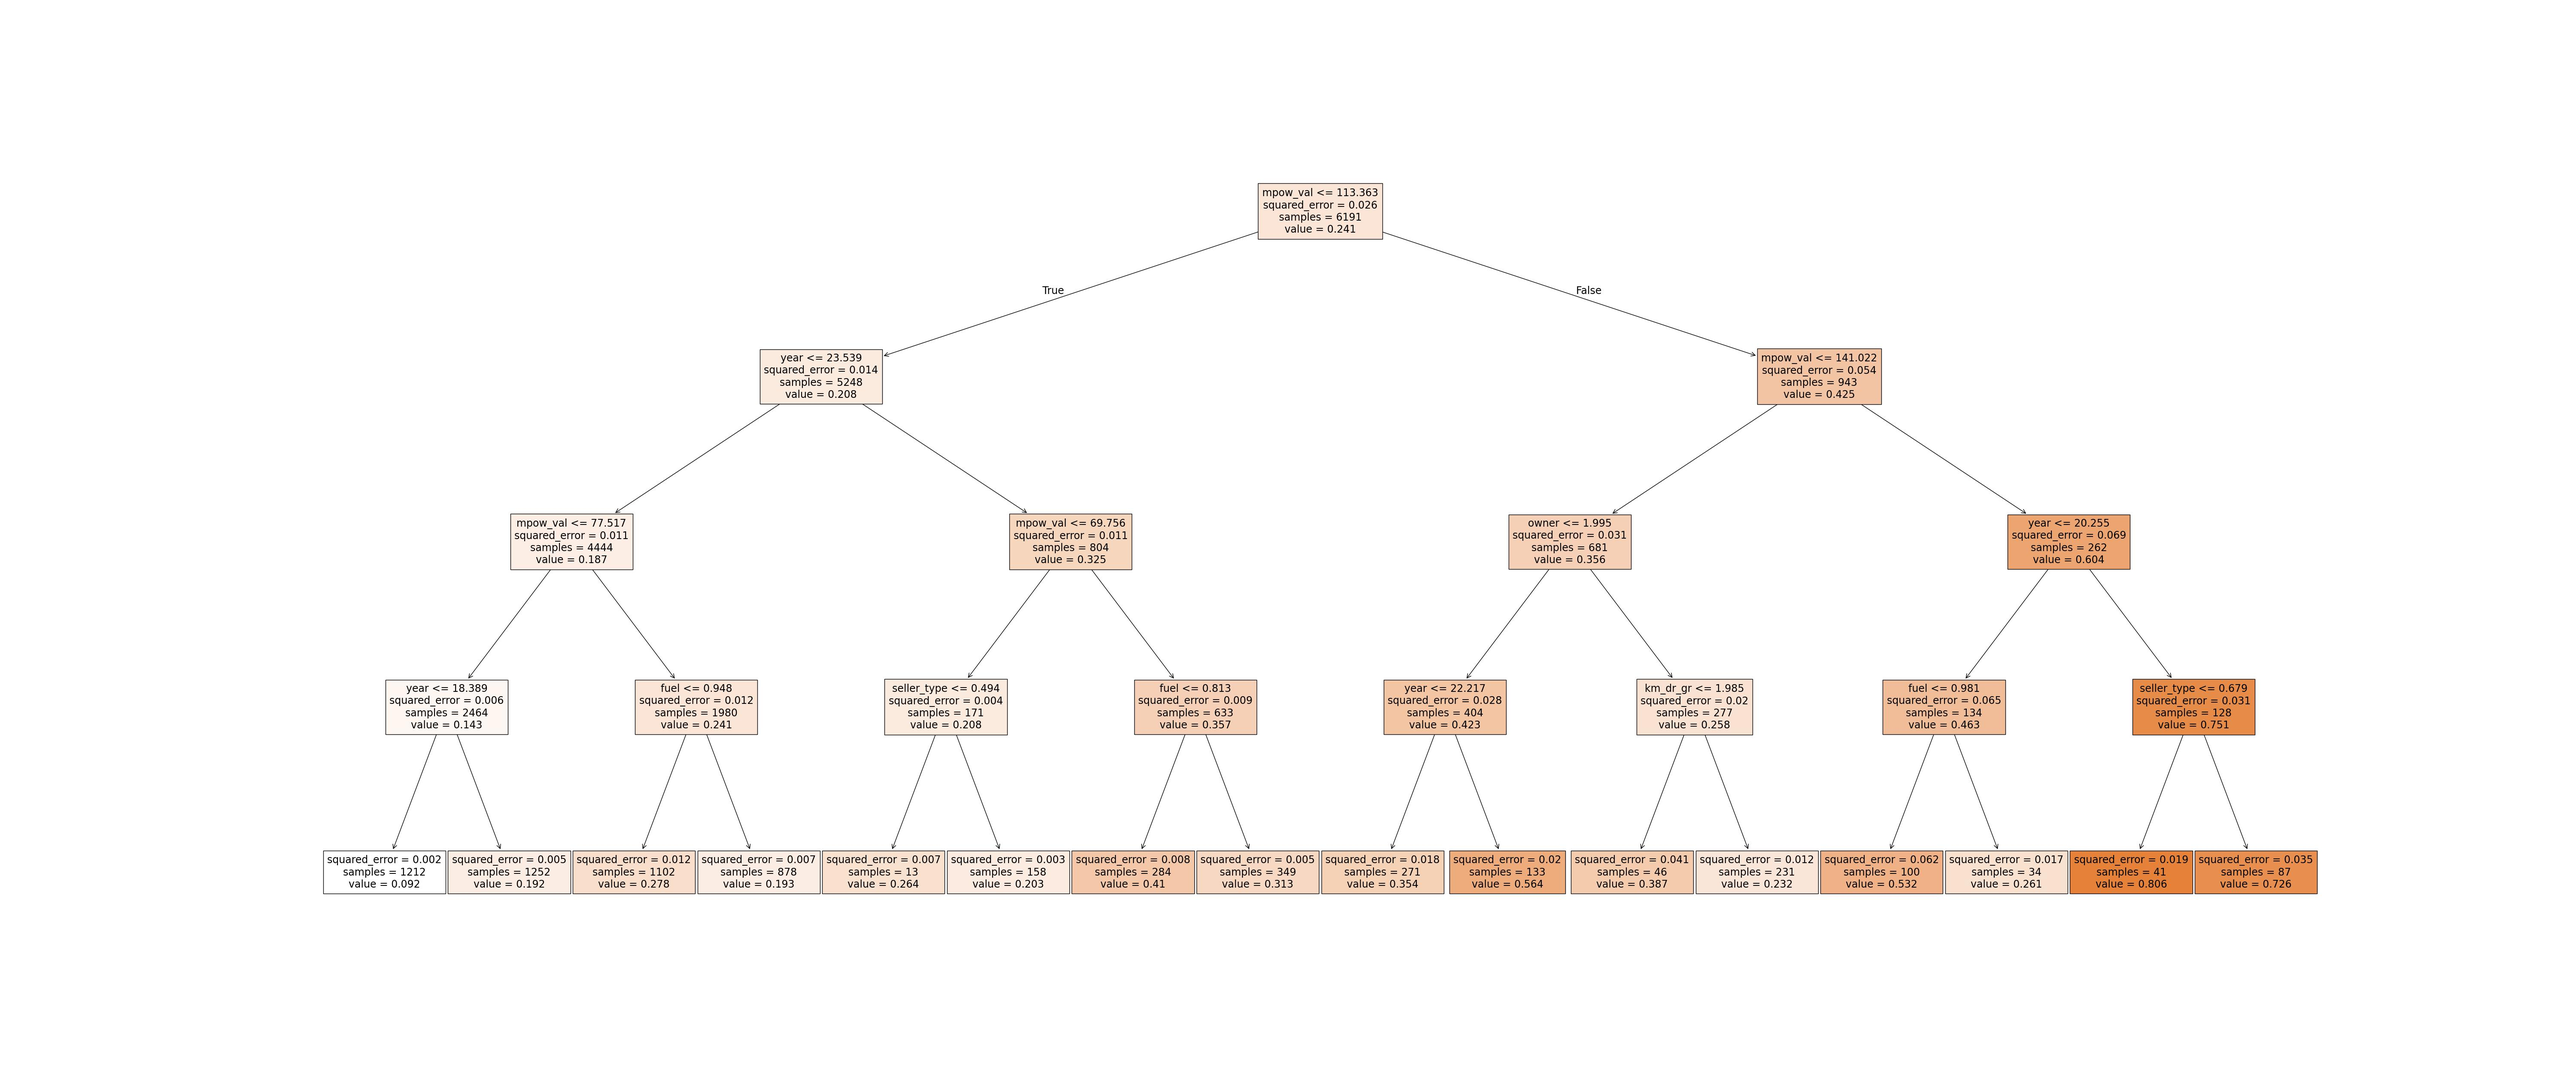
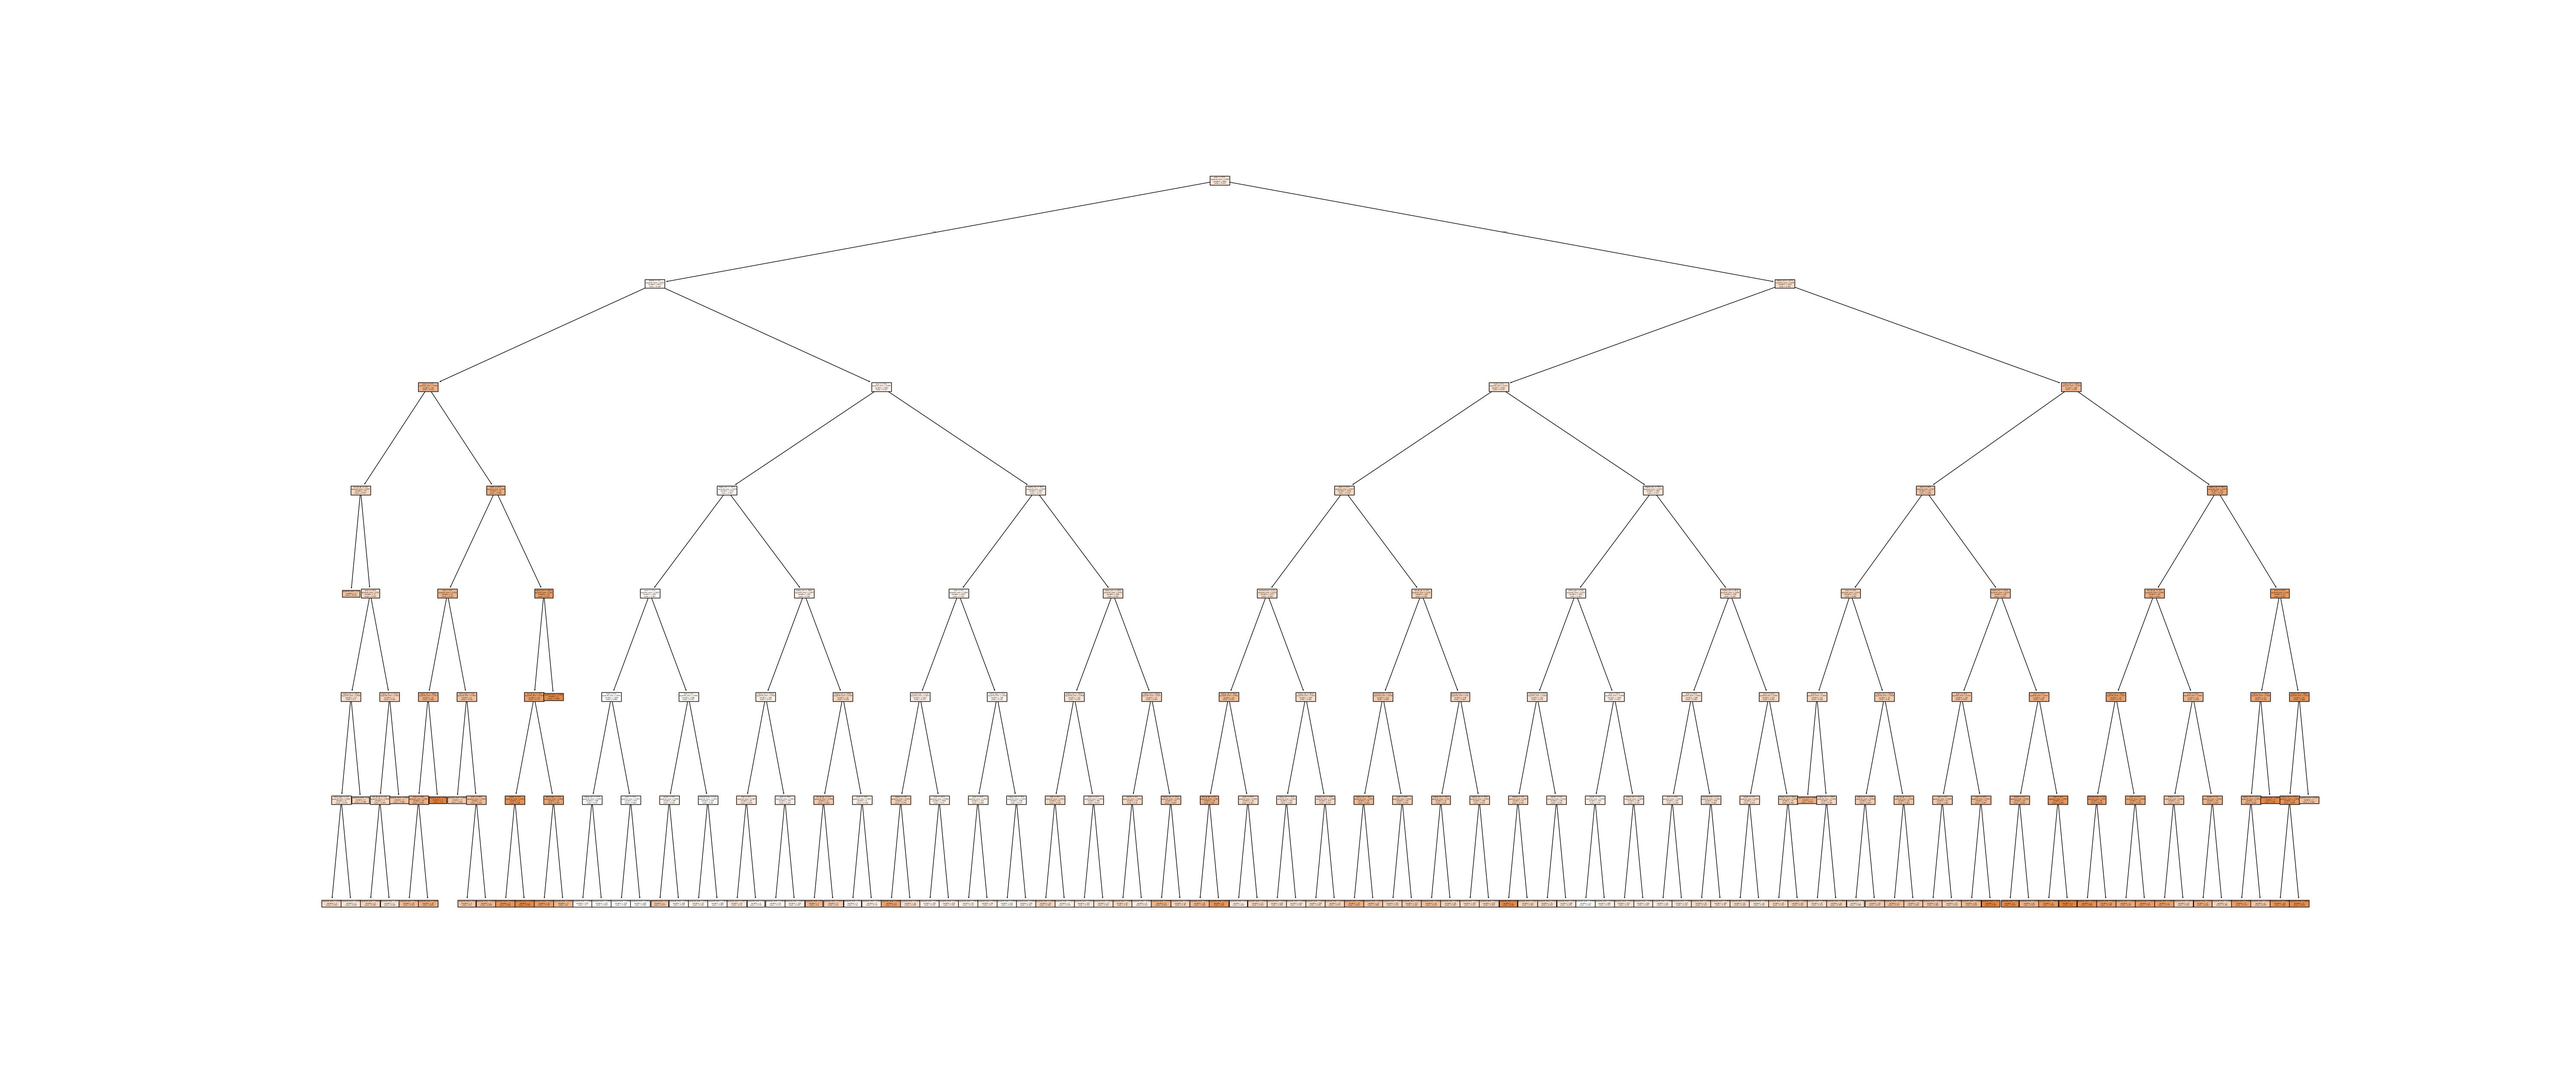
Cat boosting

diff --git a/Racheev/data_preparation.py b/Racheev/data_preparation.py
@@ -96,7 +96,7 @@ def set_brand(car_table: pd.DataFrame) -> pd.DataFrame:
     return car_table
 
 
-def clean_data(car_table_1: pd.DataFrame, car_table_2: pd.DataFrame, car_table_3: pd.DataFrame) -> pd.DataFrame:
+def clean_data(car_table_1: pd.DataFrame, car_table_2: pd.DataFrame, car_table_3: pd.DataFrame, short = True) -> pd.DataFrame:
     # Очистка и объединение данных
 
     # Удаление дублирующихся строк
@@ -160,9 +160,9 @@ def clean_data(car_table_1: pd.DataFrame, car_table_2: pd.DataFrame, car_table_3
     #
     # Удалим столбец name, так как он имеет много различных текстовых данных, которые были обработаны в столбец brand
     car_table.drop(columns='name', inplace=True)
-    car_table['max_power'] = car_table['max_power'].fillna("0")
+    car_table['max_power'] = car_table['max_power'].fillna("-1")
     car_table['mpow_val'] = car_table['max_power'].apply(words, word_numb=1)
-    car_table['mpow_val'] = car_table['mpow_val'].str.replace('bhp', '0')
+    car_table['mpow_val'] = car_table['mpow_val'].str.replace('bhp', '-1')
     car_table['mpow_val'] = car_table['mpow_val'].astype(float)
     #step = 2.5 * math.pow(10, 1)
     #car_table['mpow_val_d'] = (((car_table['mpow_val']) + step / 2) // step) * step
@@ -172,10 +172,16 @@ def clean_data(car_table_1: pd.DataFrame, car_table_2: pd.DataFrame, car_table_3
 
     car_table.drop(columns=['km_driven', 'seats'], inplace=True)
     car_table.drop(columns=['mileage', 'engine', 'max_power', 'torque'], inplace=True)
-    # Удаление строк без мощности
-    car_table = car_table[car_table['mpow_val'] != 0]
-    car_table['mpow_val'] = car_table[car_table['mpow_val'] != 0]['mpow_val'].apply(np.round).astype(int)
-    #car_table = car_table[car_table['mpow_val_d'] != 0]
+
+    #car_table['mpow_val'] = car_table['mpow_val'].fillna(-1)
+
+    if (short == True):
+        # Удаление строк без мощности
+        car_table = car_table[car_table['mpow_val'] > 0]
+        car_table['mpow_val'] = car_table[car_table['mpow_val'] > 0]['mpow_val'].apply(np.round).astype(int)
+        #
+    else:
+        car_table['mpow_val'] = car_table['mpow_val'].apply(np.round).astype(int)
 
     car_table = to_categorical(car_table)
     #нормализация
@@ -220,7 +226,7 @@ if __name__ == '__main__':
     car_table_2 = pd.read_csv(src_table[1], delimiter=',')
     car_table_3 = pd.read_csv(src_table[2], delimiter=',')
     #print(car_table_1.info(), car_table_2.info(), car_table_3.info())
-    car_table_clear = clean_data(car_table_1, car_table_2, car_table_3)
+    car_table_clear = clean_data(car_table_1, car_table_2, car_table_3, True)
     print('Обработанное')
     print(car_table_clear.info())
     print(car_table_clear.describe(include = 'all'))

diff --git a/Racheev/cat_boost.py b/Racheev/cat_boost.py
@@ -31,7 +31,7 @@ if __name__ == '__main__':
 
     with open(args.params, 'r') as f:
         params_all = yaml.safe_load(f)
-    params = params_all['cat_boost']
+    parameters = params_all['cat_boost']
 
 
     input_dir = Path(args.input_dir)
@@ -52,7 +52,7 @@ if __name__ == '__main__':
     y_test = pd.read_csv(y_test_name)
 
     cat = CATBOOST_MODELS_MAPPER.get(args.model_name)()
-
+    cat = GridSearchCV(estimator=cat, param_grid=parameters[args.model_name])
     '''
     params = {"iterations": 100,
               "depth": 2,
@@ -78,7 +78,7 @@ if __name__ == '__main__':
 
     cat = GridSearchCV(estimator=cat, param_grid=parameters, cv=2, n_jobs=-1)
     '''
-    random.seed(67)
+
     #decision_tree_model = CATBOOST_MODELS_MAPPER.get(args.model_name)()
     #decision_tree_regressor = GridSearchCV(decision_tree_model, params[args.model_name])
     cat.fit(X_train, y_train, verbose=False)
@@ -94,30 +94,14 @@ if __name__ == '__main__':
     predicted_values = np.squeeze(cat.predict(X_test))
 
     print(cat.score(X_test, y_test))
-    print(cat.get_params)
+    #print(cat.get_params)
+    print(cat.best_params_)
 
     print("Baseline MAE: ", mean_absolute_error(y_test, y_pred_baseline))
     print("Model MAE: ", mean_absolute_error(y_test, predicted_values))
 
     #model.fit(X, y, cat_features=[2, 3])
 
-    feature_importance = cat.get_feature_importance()
-    feature_names = X_train.columns
 
-    # Display feature importance
-    for name, importance in zip(feature_names, feature_importance):
-        print(f"Feature: {name}, Importance: {importance:.2f}")
-
-    '''
-    import matplotlib.pyplot as plt
-    import seaborn as sns
-    plt.figure(figsize=(10, 6))
-    sns.barplot(x=feature_importance, y=feature_names, color = 'b')
-    plt.title('Feature Importance')
-    plt.xlabel('Importance')
-    plt.ylabel('Features')
-    plt.grid()
-    plt.show()
-    '''
 
     dump(cat, output_model_joblib_path)

diff --git a/Racheev/decision_tree_full.py b/Racheev/decision_tree_full.py
@@ -15,9 +15,9 @@ TREES_MODELS_MAPPER = {'DecisionTree': tree.DecisionTreeRegressor,
 
 # Set the best parameters that you get on training stage for all used models
 TREES_MODELS_BEST_PARAMETERS = {
-    'DecisionTree': {'max_depth': 4, 'min_samples_leaf': 3, 'min_samples_split': 3, 'splitter': 'random'},
-    'RandomForest': {'max_depth': 7, 'min_samples_leaf': 1, 'min_samples_split': 7, 'n_estimators': 10},
-    'ExtraTree': {'max_depth': 6, 'min_samples_leaf': 2, 'min_samples_split': 2, 'n_estimators': 5}}
+    'DecisionTree': {'max_depth': 7, 'min_samples_leaf': 1, 'min_samples_split': 4, 'splitter': 'best'},
+    'RandomForest': {'max_depth': 7, 'min_samples_leaf': 1, 'min_samples_split': 3, 'n_estimators': 15},
+    'ExtraTree': {'max_depth': 7, 'min_samples_leaf': 1, 'min_samples_split': 2, 'n_estimators': 15}}
 
 
 def parser_args_for_sac():

diff --git a/Racheev/cat_boost_full.py b/Racheev/cat_boost_full.py
@@ -14,7 +14,7 @@ CATBOOST_MODELS_MAPPER = {'CatBoostRegressor': CatBoostRegressor}
 
 # Set the best parameters that you get on training stage for all used models
 CATBOOST_MODELS_BEST_PARAMETERS = {
-    'CatBoostRegressor': {'depth': 10, 'learning_rate': 0.05, 'iterations': 100}}
+    'CatBoostRegressor': {'depth': 6, 'iterations': 200, 'learning_rate': 0.1}}
 
 def parser_args_for_sac():
     parser = argparse.ArgumentParser(description='Paths parser')
